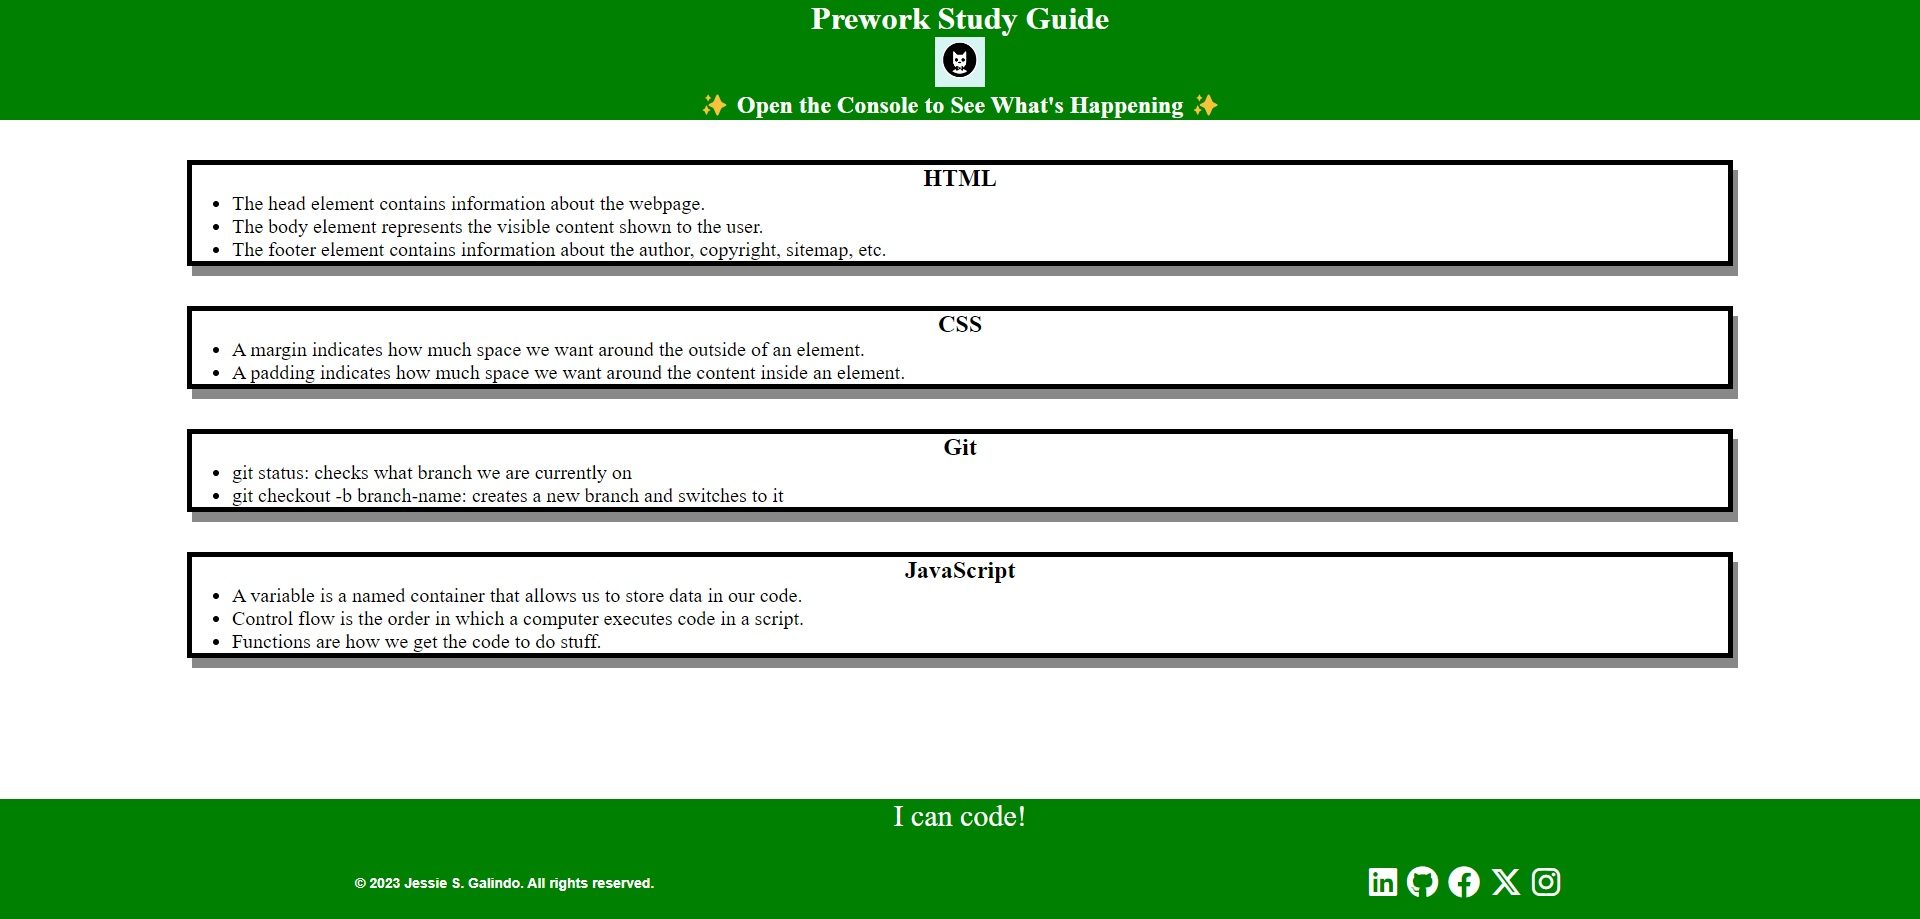
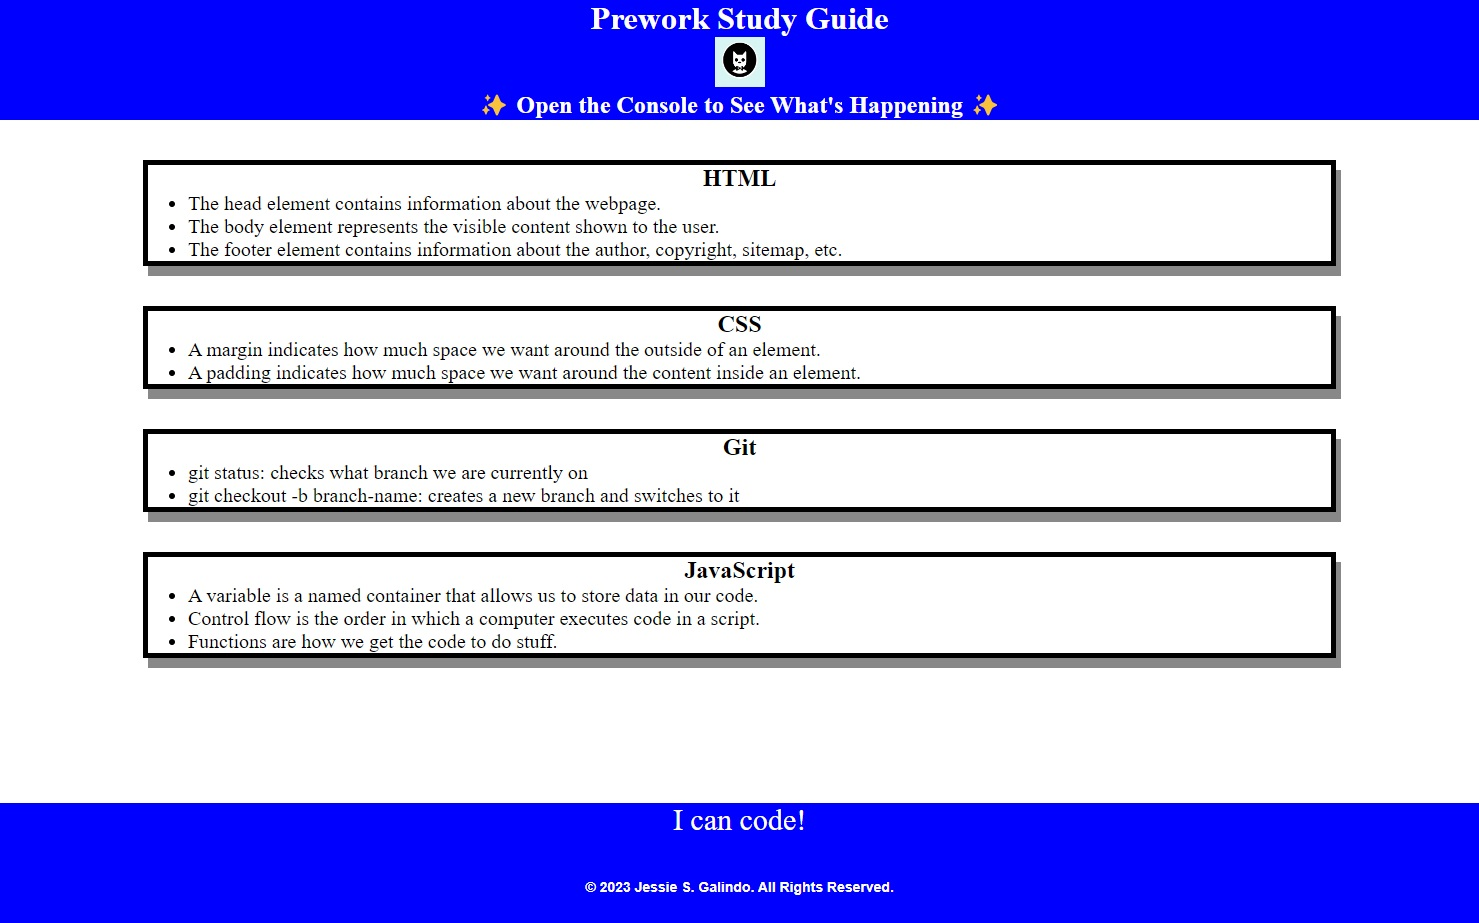
finished product

diff --git a/index.html b/index.html
@@ -2,131 +2,88 @@
 <html lang="en">
   <head>
     <meta charset="UTF-8" />
-    <meta http-equiv="X-UA-Compatible" content="IE=edge" />
     <meta name="viewport" content="width=device-width, initial-scale=1.0" />
+    <meta http-equiv="X-UA-Compatible" content="IE=edge" />
+
     <link rel="stylesheet" href="./assets/css/style.css" />
+
     <title>Prework Study Guide</title>
   </head>
 
   <body>
-    <header id="top">
-      <h1>Prework Study Guide</h1>
-      <img
-        src="./assets/images/bowtie-cat.png"
-        alt="Profile image of cat wearing a bow tie."
-      />
-      <h2>✨ Open the Console to See What's Happening ✨</h2>
-    </header>
-    <main>
-      <section class="card" id="html-section">
-        <h2>HTML</h2>
-        <ul>
-          <li>The head element contains information about the webpage.</li>
-          <li>
-            The body element represents the visible content shown to the user.
-          </li>
-          <li>
-            The footer element contains information about the author, copyright,
-            sitemap, etc.
-          </li>
-        </ul>
-      </section>
-
-      <section class="card" id="css-section">
-        <h2>CSS</h2>
-        <ul>
-          <li>
-            A margin indicates how much space we want around the outside of an
-            element.
-          </li>
-          <li>
-            A padding indicates how much space we want around the content inside
-            an element.
-          </li>
-        </ul>
-      </section>
-
-      <section class="card" id="git-section">
-        <h2>Git</h2>
-        <ul>
-          <li>git status: checks what branch we are currently on</li>
-          <li>
-            git checkout -b branch-name: creates a new branch and switches to it
-          </li>
-        </ul>
-      </section>
-
-      <section class="card" id="javascript-section">
-        <h2>JavaScript</h2>
-        <ul>
-          <li>
-            A variable is a named container that allows us to store data in our
-            code.
-          </li>
-          <li>
-            Control flow is the order in which a computer executes code in a
-            script.
-          </li>
-          <li>Functions are how we get the code to do stuff.</li>
-        </ul>
-      </section>
-    </main>
-
-    <footer>
-      <p>I can code!</p>
-      <div class="copy">
-        <div class="copyright">
-          &copy; 2023 Jessie S. Galindo. All rights reserved.
-        </div>
-        <div class="socials">
-          <div class="linkedin">
-            <a
-              href="https://www.linkedin.com/in/jessiesgalindo/"
-              target="_blank"
-              rel="noopener noreferrer"
-            >
-              <i class="fa-brands fa-linkedin fa-2xl"></i>
-            </a>
-          </div>
-          <div class="github">
-            <a
-              href="https://github.com/MrMessyFace"
-              target="_blank"
-              rel="noopener noreferrer"
-            >
-              <i class="fa-brands fa-github fa-2xl"></i>
-            </a>
-          </div>
-          <div class="facebook">
-            <a
-              href="https://www.facebook.com/MrMessyFace"
-              target="_blank"
-              rel="noopener noreferrer"
-            >
-              <i class="fa-brands fa-facebook fa-2xl"></i>
-            </a>
-          </div>
-          <div class="twitter">
-            <a
-              href="https://www.twitter.com/MrMessyFace"
-              target="_blank"
-              rel="noopener noreferrer"
-            >
-              <i class="fa-brands fa-x-twitter fa-2xl"></i>
-            </a>
-          </div>
-          <div class="instagram">
-            <a
-              href="https://www.instagram.com/MrMessyFace"
-              target="_blank"
-              rel="noopener noreferrer"
-            >
-              <i class="fa-brands fa-instagram fa-2xl"></i>
-            </a>
-          </div>
-        </div>
+    <div class="container">
+      <div class="wrapper">
+        <header id="top">
+          <h1>Prework Study Guide</h1>
+          <img
+            src="./assets/images/bowtie-cat.png"
+            alt="Profile image of cat wearing a bow tie."
+          />
+          <h2>✨ Open the Console to See What's Happening ✨</h2>
+        </header>
+        <main>
+          <section class="card" id="html-section">
+            <h2>HTML</h2>
+            <ul>
+              <li>The head element contains information about the webpage.</li>
+              <li>
+                The body element represents the visible content shown to the
+                user.
+              </li>
+              <li>
+                The footer element contains information about the author,
+                copyright, sitemap, etc.
+              </li>
+            </ul>
+          </section>
+          <section class="card" id="css-section">
+            <h2>CSS</h2>
+            <ul>
+              <li>
+                A margin indicates how much space we want around the outside of
+                an element.
+              </li>
+              <li>
+                A padding indicates how much space we want around the content
+                inside an element.
+              </li>
+            </ul>
+          </section>
+          <section class="card" id="git-section">
+            <h2>Git</h2>
+            <ul>
+              <li>git status: checks what branch we are currently on</li>
+              <li>
+                git checkout -b branch-name: creates a new branch and switches
+                to it
+              </li>
+            </ul>
+          </section>
+          <section class="card" id="javascript-section">
+            <h2>JavaScript</h2>
+            <ul>
+              <li>
+                A variable is a named container that allows us to store data in
+                our code.
+              </li>
+              <li>
+                Control flow is the order in which a computer executes code in a
+                script.
+              </li>
+              <li>Functions are how we get the code to do stuff.</li>
+            </ul>
+          </section>
+        </main>
       </div>
-    </footer>
+      <footer>
+        <p>I can code!</p>
+        <div class="footer-section">
+          <div class="copyright">
+            &copy; 2023 Jessie S. Galindo. All Rights Reserved.
+          </div>
+        </div>
+      </footer>
+    </div>
 
     <script src="./assets/js/script.js"></script>
     <script

diff --git a/assets/css/style.css b/assets/css/style.css
@@ -3,10 +3,20 @@
   padding: 0;
 }
 
-header {
+.container {
+  position: relative;
+  min-height: 100vh;
+}
+
+.wrapper {
+  padding-bottom: 2.5rem;
+}
+
+header,
+footer {
   width: 100%;
   height: 120px;
-  background-color: green;
+  background-color: blue;
   color: white;
 }
 
@@ -41,55 +51,26 @@ p {
 }
 
 footer {
-  width: 100%;
-  height: 120px;
-  background-color: green;
-  color: white;
-  position: fixed;
-  margin-top: 45px;
-  left: 0;
+  position: absolute;
   bottom: 0;
+  width: 100%;
 }
 
-.copy {
+.footer-section {
   display: flex;
-  justify-content: space-around;
-  font-family: Arial, Helvetica, sans-serif;
+  justify-content: center;
   margin-top: 25px;
   height: 50px;
-  left: 0;
   bottom: 0;
-  width: 100%;
 }
 
-.copyright,
-.socials {
+.copyright {
   display: flex;
   justify-content: center;
   align-items: center;
   flex-direction: row;
   flex-flow: row;
-}
-
-.copyright {
-  color: white;
+  font-family: Arial, Helvetica, sans-serif;
   font-size: 14px;
   font-weight: bold;
-}
-
-.linkedin,
-.github,
-.facebook,
-.twitter,
-.instagram {
-  margin-left: 5px;
-  margin-right: 5px;
-}
-
-.linkedin a,
-.github a,
-.facebook a,
-.twitter a,
-.instagram a {
-  color: white;
 }

diff --git a/README.md b/README.md
@@ -6,7 +6,7 @@ I created a study guide to help bootcamp students get started to learn about cod
 
 ## Installation
 
-No installation necessary.
+No installation necessary but you can clone the [repository](https://github.com/MrMessyFace/prework-study-guide) from GitHub to edit it and make your own version.
 
 ## Usage
 
